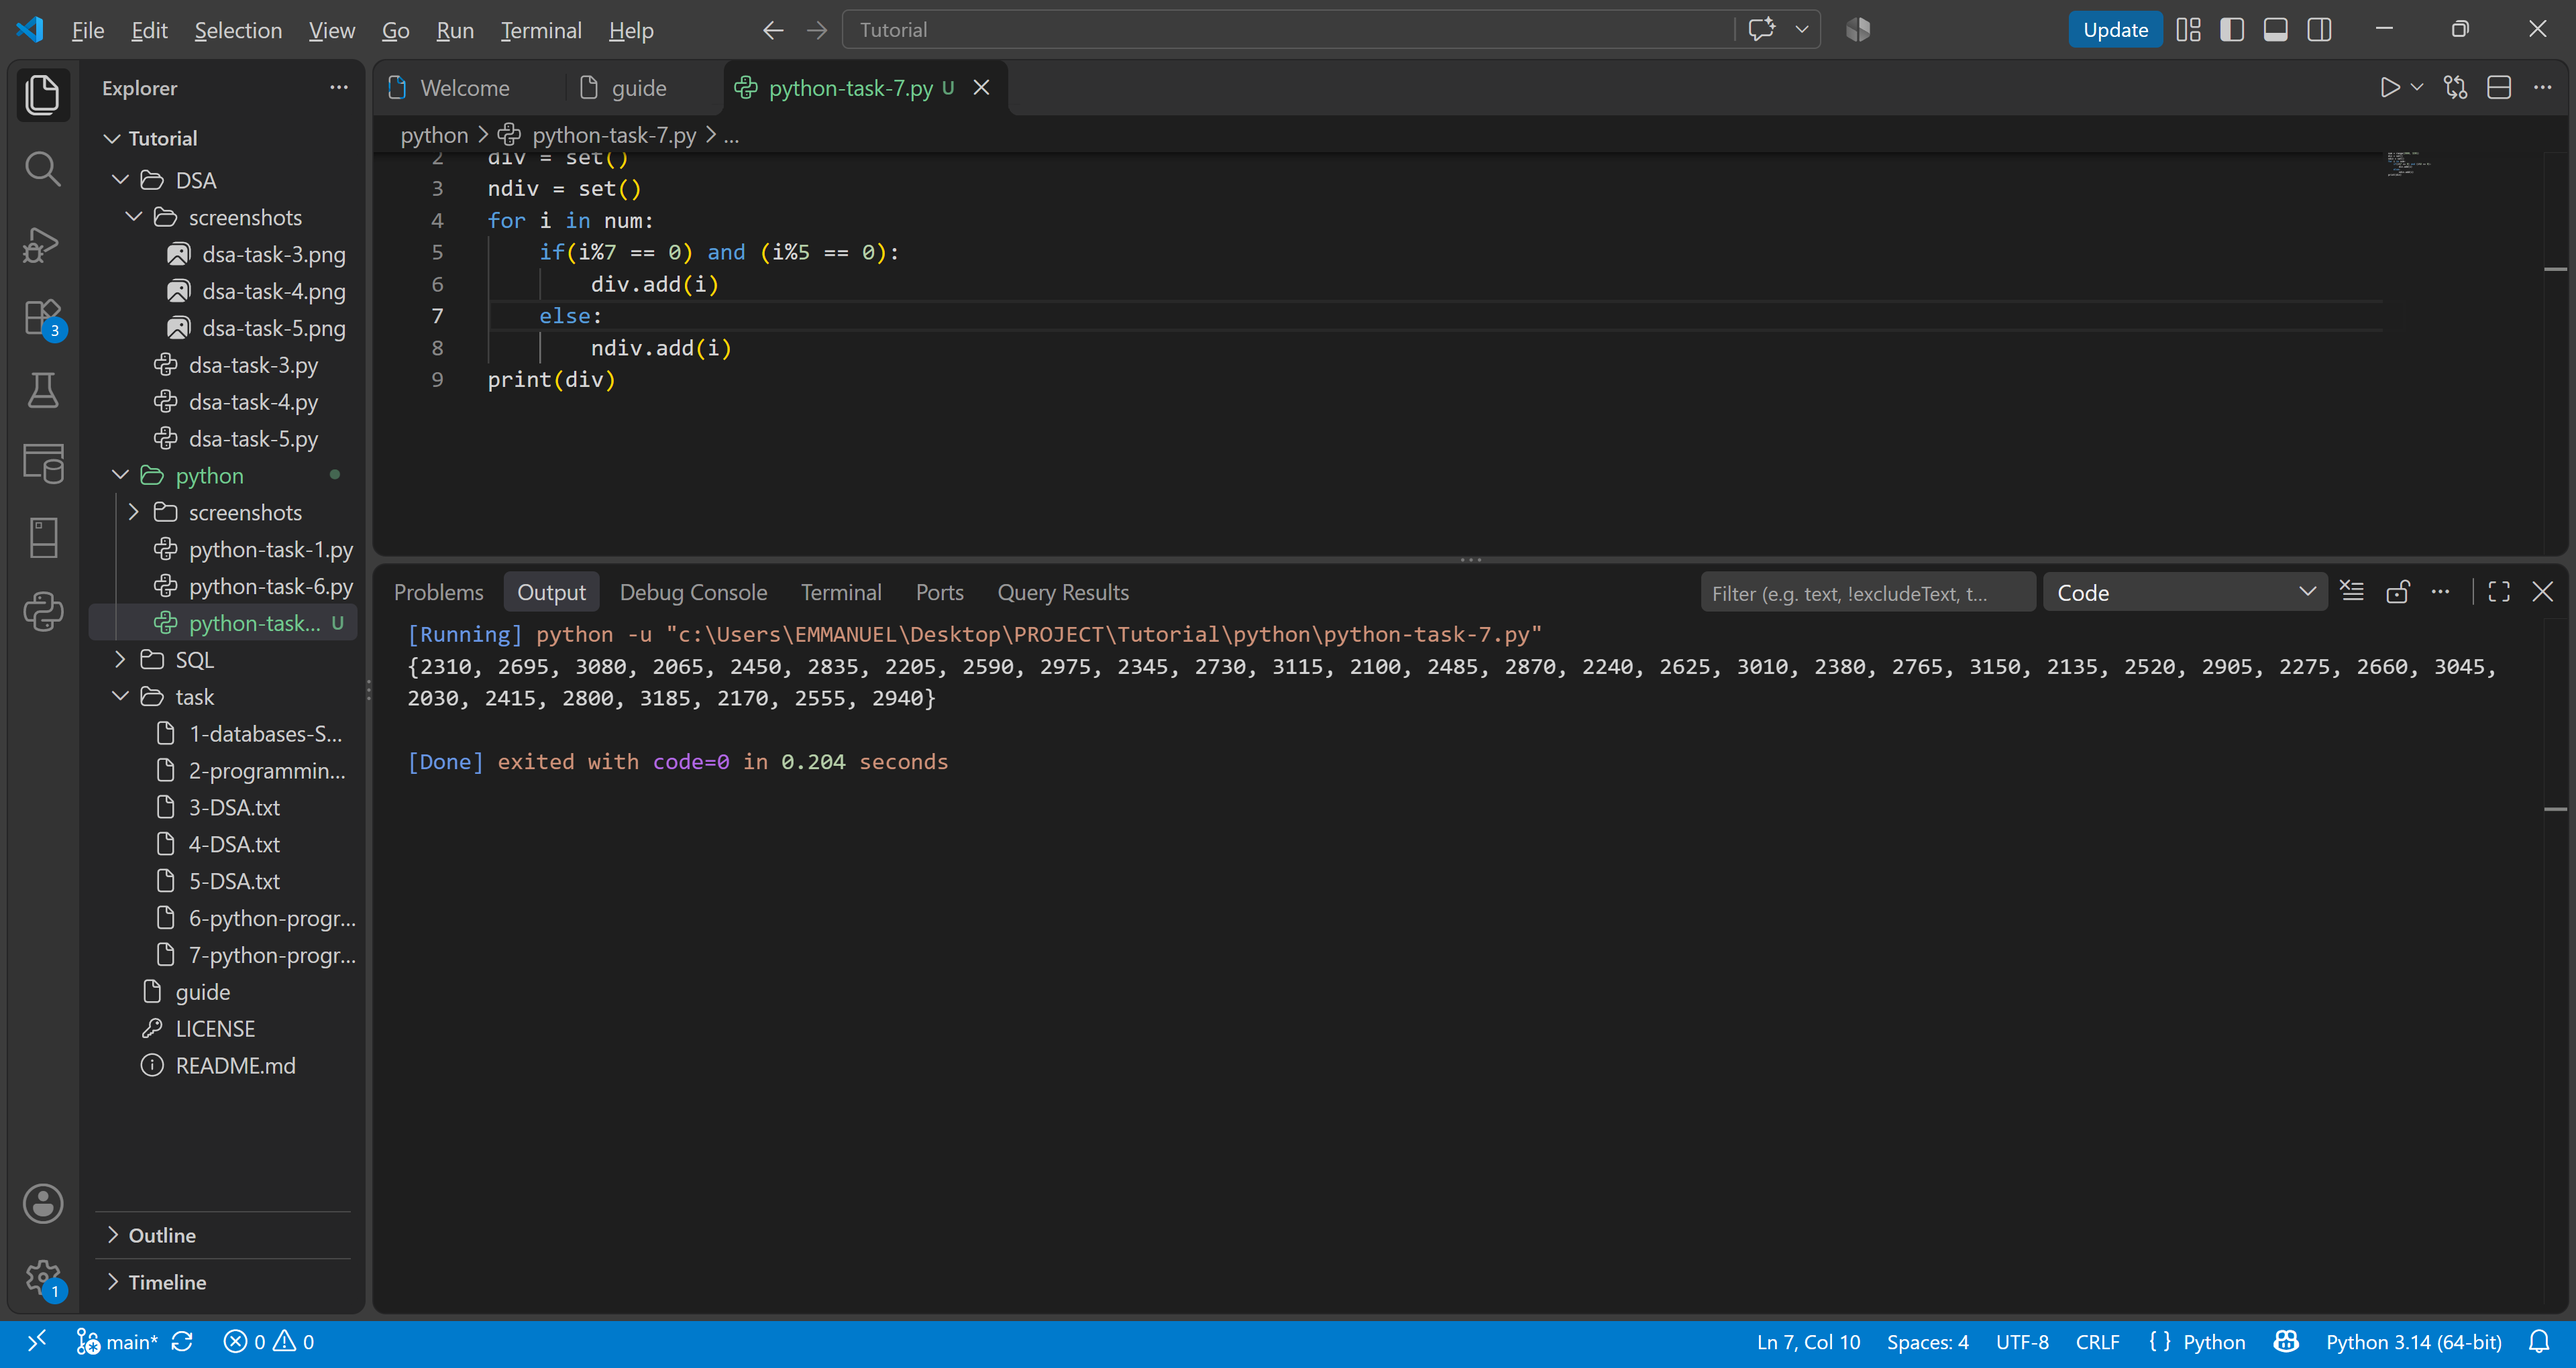
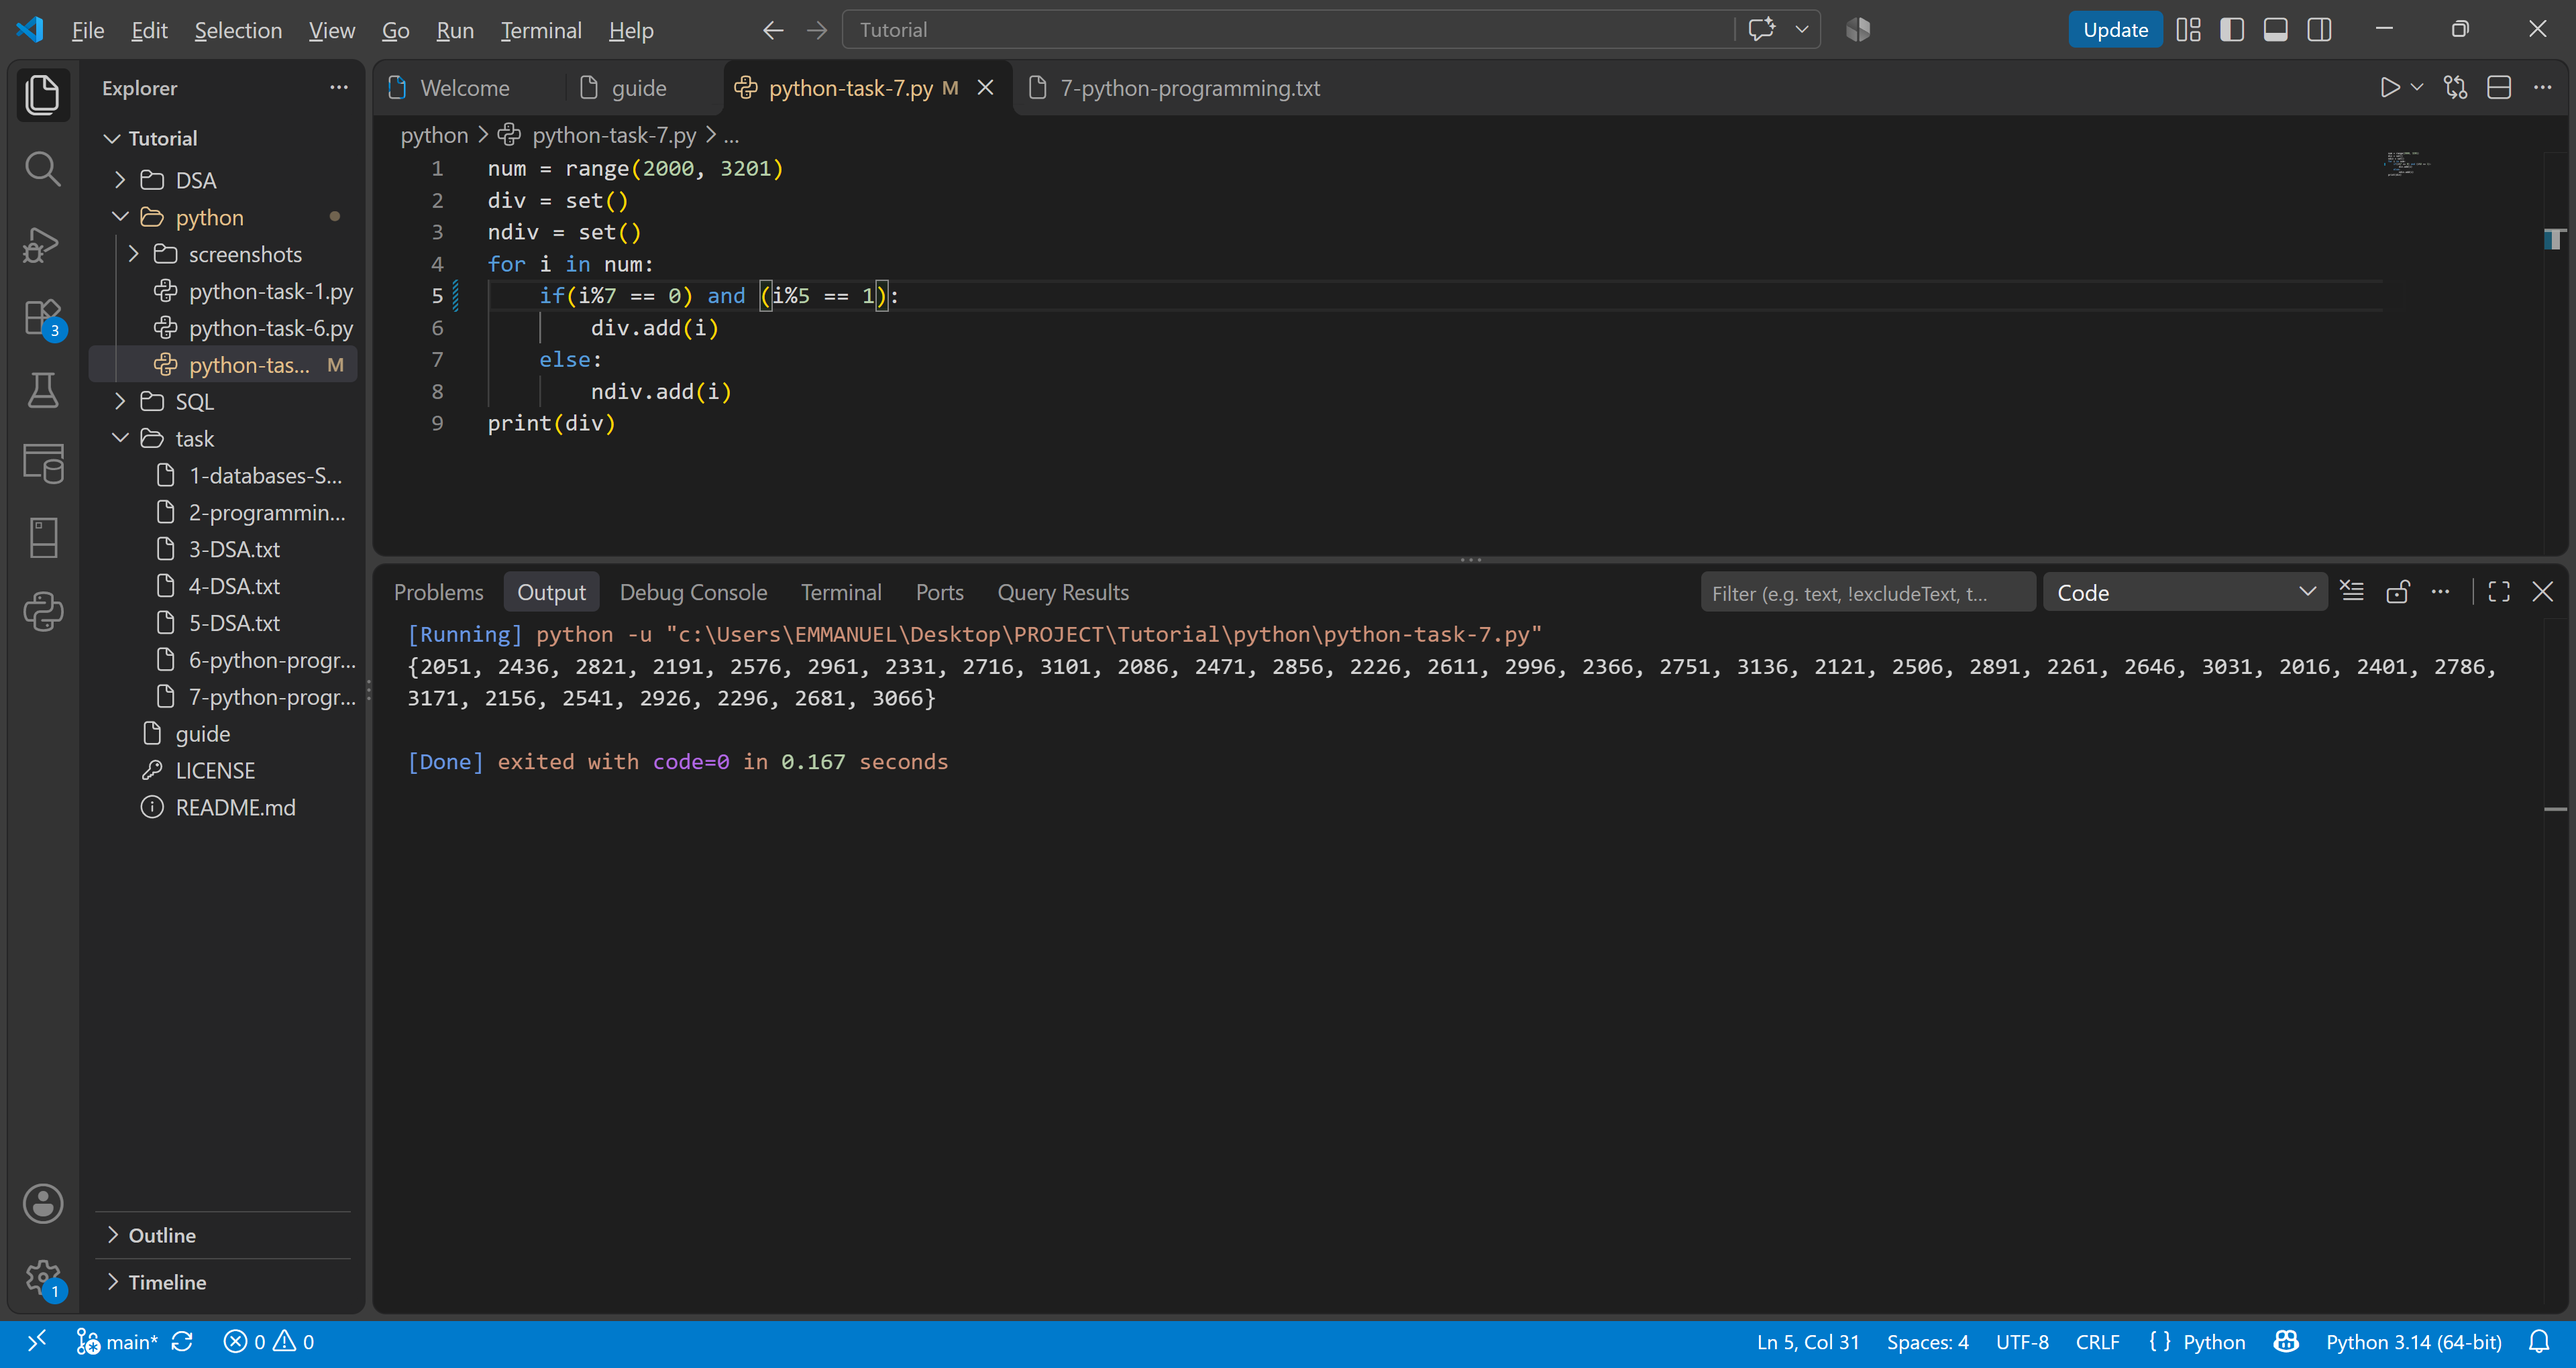
python-task6

diff --git a/python/python-task-7.py b/python/python-task-7.py
@@ -2,7 +2,7 @@ num = range(2000, 3201)
 div = set()
 ndiv = set()
 for i in num:
-    if(i%7 == 0) and (i%5 == 0):
+    if(i%7 == 0) and (i%5 == 1):
         div.add(i)
     else:
         ndiv.add(i)
